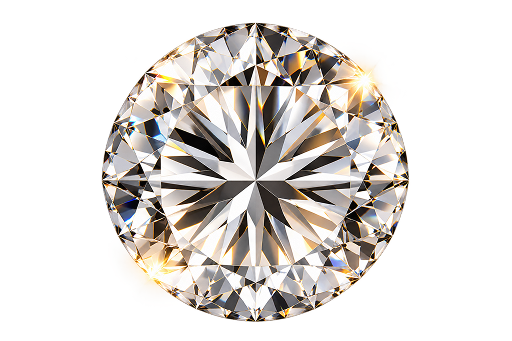
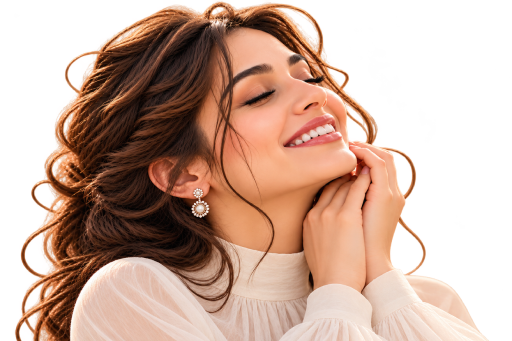
Comparison: move the big headings up under the small label

diff --git a/index.html b/index.html
@@ -53,23 +53,23 @@
 <div class="a" style="left:567px;top:2030px;width:8px;height:0;transform:rotate(0deg)"><img class="ln" src="assets/line10.svg" alt=""></div>
 <div class="a side" id="txt-natL" style="left:0;top:0">
 <div class="a eyebrow" style="left:126px;top:1805px">NATURAL DIAMOND</div>
-<div class="a h50" style="left:126px;top:1901px;font-size:38px;line-height:42px"><span style="color:#ccb4a0">FORMED</span><br><span style="color:#000">BY TIME</span></div>
-<div class="a body18" style="left:128px;top:2005px;width:282px">Created deep within the Earth under intense heat and pressure over millions of years.</div>
+<div class="a h50" style="left:126px;top:1857px;font-size:38px;line-height:42px"><span style="color:#ccb4a0">FORMED</span><br><span style="color:#000">BY TIME</span></div>
+<div class="a body18" style="left:128px;top:1961px;width:282px">Created deep within the Earth under intense heat and pressure over millions of years.</div>
 </div>
 <div class="a side" id="txt-labR" style="left:0;top:0">
 <div class="a eyebrow" style="left:1511px;top:1805px">LAB-GROWN DIAMOND</div>
-<div class="a h50" style="left:1511px;top:1901px;font-size:38px;line-height:42px"><span style="color:#ccb4a0">GROWN</span><br><span style="color:#000">BY SCIENCE</span></div>
-<div class="a body18" style="left:1513px;top:2005px;width:282px">Created deep within the Earth under intense heat and pressure over millions of years.</div>
+<div class="a h50" style="left:1511px;top:1857px;font-size:38px;line-height:42px"><span style="color:#ccb4a0">GROWN</span><br><span style="color:#000">BY SCIENCE</span></div>
+<div class="a body18" style="left:1513px;top:1961px;width:282px">Created deep within the Earth under intense heat and pressure over millions of years.</div>
 </div>
 <div class="a side" id="txt-labL" style="left:0;top:0">
-<div class="a h50" style="left:126px;top:1901px;font-size:38px;line-height:42px"><span style="color:#ccb4a0">Created</span><br><span style="color:#000">by innovation</span></div>
-<div class="a body18" style="left:128px;top:2005px;width:330px">Grown with advanced technology that replicates nature’s own process, lab-grown diamonds share the same physical, chemical and optical properties as natural ones. Modern in origin, identical in composition, and made to shine just as beautifully.</div>
-<div class="a eyebrow clink" style="left:128px;top:2278px"><a href="#">Know more</a></div>
+<div class="a h50" style="left:126px;top:1857px;font-size:38px;line-height:42px"><span style="color:#ccb4a0">Created</span><br><span style="color:#000">by innovation</span></div>
+<div class="a body18" style="left:128px;top:1961px;width:330px">Grown with advanced technology that replicates nature’s own process, lab-grown diamonds share the same physical, chemical and optical properties as natural ones. Modern in origin, identical in composition, and made to shine just as beautifully.</div>
+<div class="a eyebrow clink" style="left:128px;top:2262px"><a href="#">Know more</a></div>
 </div>
 <div class="a side" id="txt-natR" style="left:0;top:0">
-<div class="a h50" style="left:1480px;top:1901px;font-size:38px;line-height:42px"><span style="color:#ccb4a0">Shaped</span><br><span style="color:#000">by nature</span></div>
-<div class="a body18" style="left:1482px;top:2005px;width:330px">Born deep within the Earth, natural diamonds form over billions of years under extraordinary heat and pressure. Rare, enduring and timeless, each carries a story shaped by nature — and no two are exactly alike.</div>
-<div class="a eyebrow clink" style="left:1482px;top:2278px"><a href="#">Know more</a></div>
+<div class="a h50" style="left:1480px;top:1857px;font-size:38px;line-height:42px"><span style="color:#ccb4a0">Shaped</span><br><span style="color:#000">by nature</span></div>
+<div class="a body18" style="left:1482px;top:1961px;width:330px">Born deep within the Earth, natural diamonds form over billions of years under extraordinary heat and pressure. Rare, enduring and timeless, each carries a story shaped by nature — and no two are exactly alike.</div>
+<div class="a eyebrow clink" style="left:1482px;top:2262px"><a href="#">Know more</a></div>
 </div>
 <div class="a" id="lab" data-s="0" style="left:0;top:0;width:1920px">
 <div class="a lstep on" data-i="0" style="left:0;top:0"><div class="a eyebrow" style="left:126px;top:2770px">Step one</div><div class="a h50" style="left:126px;top:2866px"><span style="color:#ccb4a0">It arrives</span><br><span style="color:#000">without a name.</span></div><div class="a body18" style="left:128px;top:2992px;width:387px">Every stone is logged anonymously. Our graders never know who sent it — so nothing but the stone itself can influence the result.</div></div>

diff --git a/tools/build.js b/tools/build.js
@@ -109,19 +109,19 @@ push(line(571, 2030, 8, 0, 'line10'));
 
 const side = (left, top, eyebrow, l1, l2, body, cta, id) => {
   // every heading uses the same size (38px) so the longest line ("BY INNOVATION") ends before the outer ring
-  const H = `left:${left}px;top:${top + 96}px;font-size:38px;line-height:42px`;
+  const H = `left:${left}px;top:${top + 52}px;font-size:38px;line-height:42px`;
   const HT = `<span style="color:#ccb4a0">${l1}</span><br><span style="color:#000">${l2}</span>`;
   push(`<div class="a side" id="${id}" style="left:0;top:0">`);
   if (cta) {
     // long copy (shown while dragging): no small label on top (the other side already shows it), plus a CTA
     push(box(H, HT, 'h50'));
-    push(box(`left:${left + 2}px;top:${top + 200}px;width:330px`, body, 'body18'));
-    push(box(`left:${left + 2}px;top:2278px`, `<a href="#">${cta}</a>`, 'eyebrow clink'));
+    push(box(`left:${left + 2}px;top:${top + 156}px;width:330px`, body, 'body18'));
+    push(box(`left:${left + 2}px;top:2262px`, `<a href="#">${cta}</a>`, 'eyebrow clink'));
   } else {
     // original design copy (shown at the start, with the handle in the middle)
     push(box(`left:${left}px;top:${top}px`, eyebrow, 'eyebrow'));
     push(box(H, HT, 'h50'));
-    push(box(`left:${left + 2}px;top:${top + 200}px;width:282px`, body, 'body18'));
+    push(box(`left:${left + 2}px;top:${top + 156}px;width:282px`, body, 'body18'));
   }
   push('</div>');
 };
